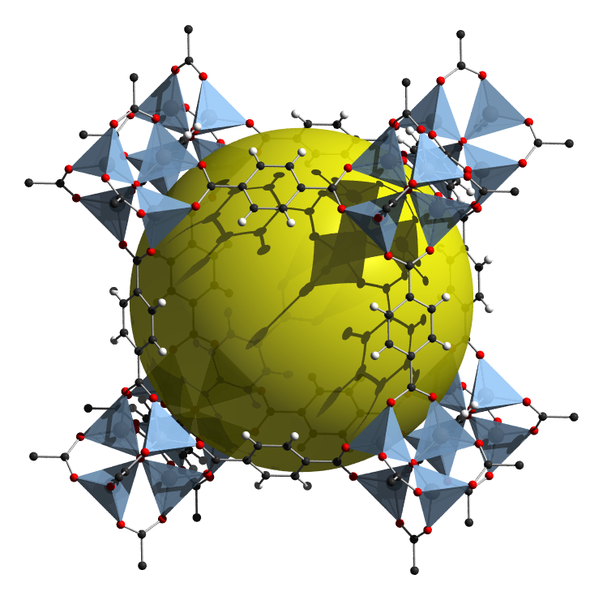
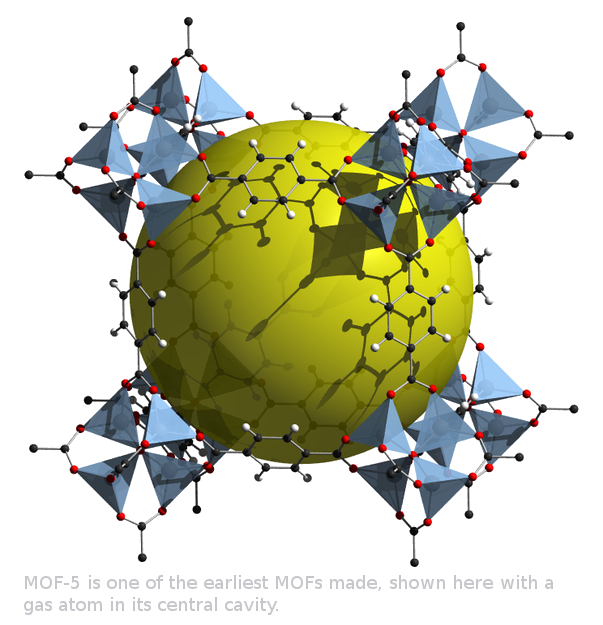
Minor CSS adjustments

Changed region(s): [[0.0299, 0.03, 0.9552, 0.99], [0.3582, 0.45, 0.3881, 0.48]]

diff --git a/index.html b/index.html
@@ -217,7 +217,7 @@ conditions can be found above in the <a>periodic boundary conditions</a> section
 <h3 class="accTitle">Surface Area</h3>
 <div>
 
-<p> The surface area of a MOF is a measure of the exposure of atoms to their surroundings. The term surface area conventionally refers to the geometric or absolute surface area which can 
+<p> The surface area of a MOF is a measure of the exposure of atoms to their surroundings. The term surface area conventionally refers to the van der Waals surface area which can 
 be thought of as the size of a sheet required to cover a structure. Another measure of surface area is the solvent-accessible surface area which considers only the surfaces where a solvent
 molecule could be found. 
 </p>
@@ -334,7 +334,7 @@ Plotting is performed with a javascript library called flot.
 
 
 <div id="acknowledgements">
-This site was made by Maxime Usdin, with the help and supervision of Greg Chung and Dr Randall Snurr of the Department of Chemical and Biological Engineering at Northwestern University. 
+This site was made by Maxime Usdin with the help and supervision of Greg Chung and Dr Randall Snurr of the Department of Chemical and Biological Engineering at Northwestern University. 
 
 </div> <!-- acknowledgements -->
 </div> <!-- how does it work div -->

diff --git a/about.html b/about.html
@@ -39,7 +39,7 @@
 </ul>About</b></div>
 <div id="aboutDescription">
 	This website aims to serve as an educational and reasearch tool to provide an online platform to visualize Metal-Organic Frameworks and calculate their physical properties.  <br /><br />
-<p id="mofImageContainer"><img id="mofImage" src="./Images/MOF-5-1.png" /> 
+<p id="mofImageContainer"><img id="mofImage" src="./Images/MOF-5.png" /> 
 
 
 Each page of this website allows for various aspects of MOFs to be explored: <br /><br />
